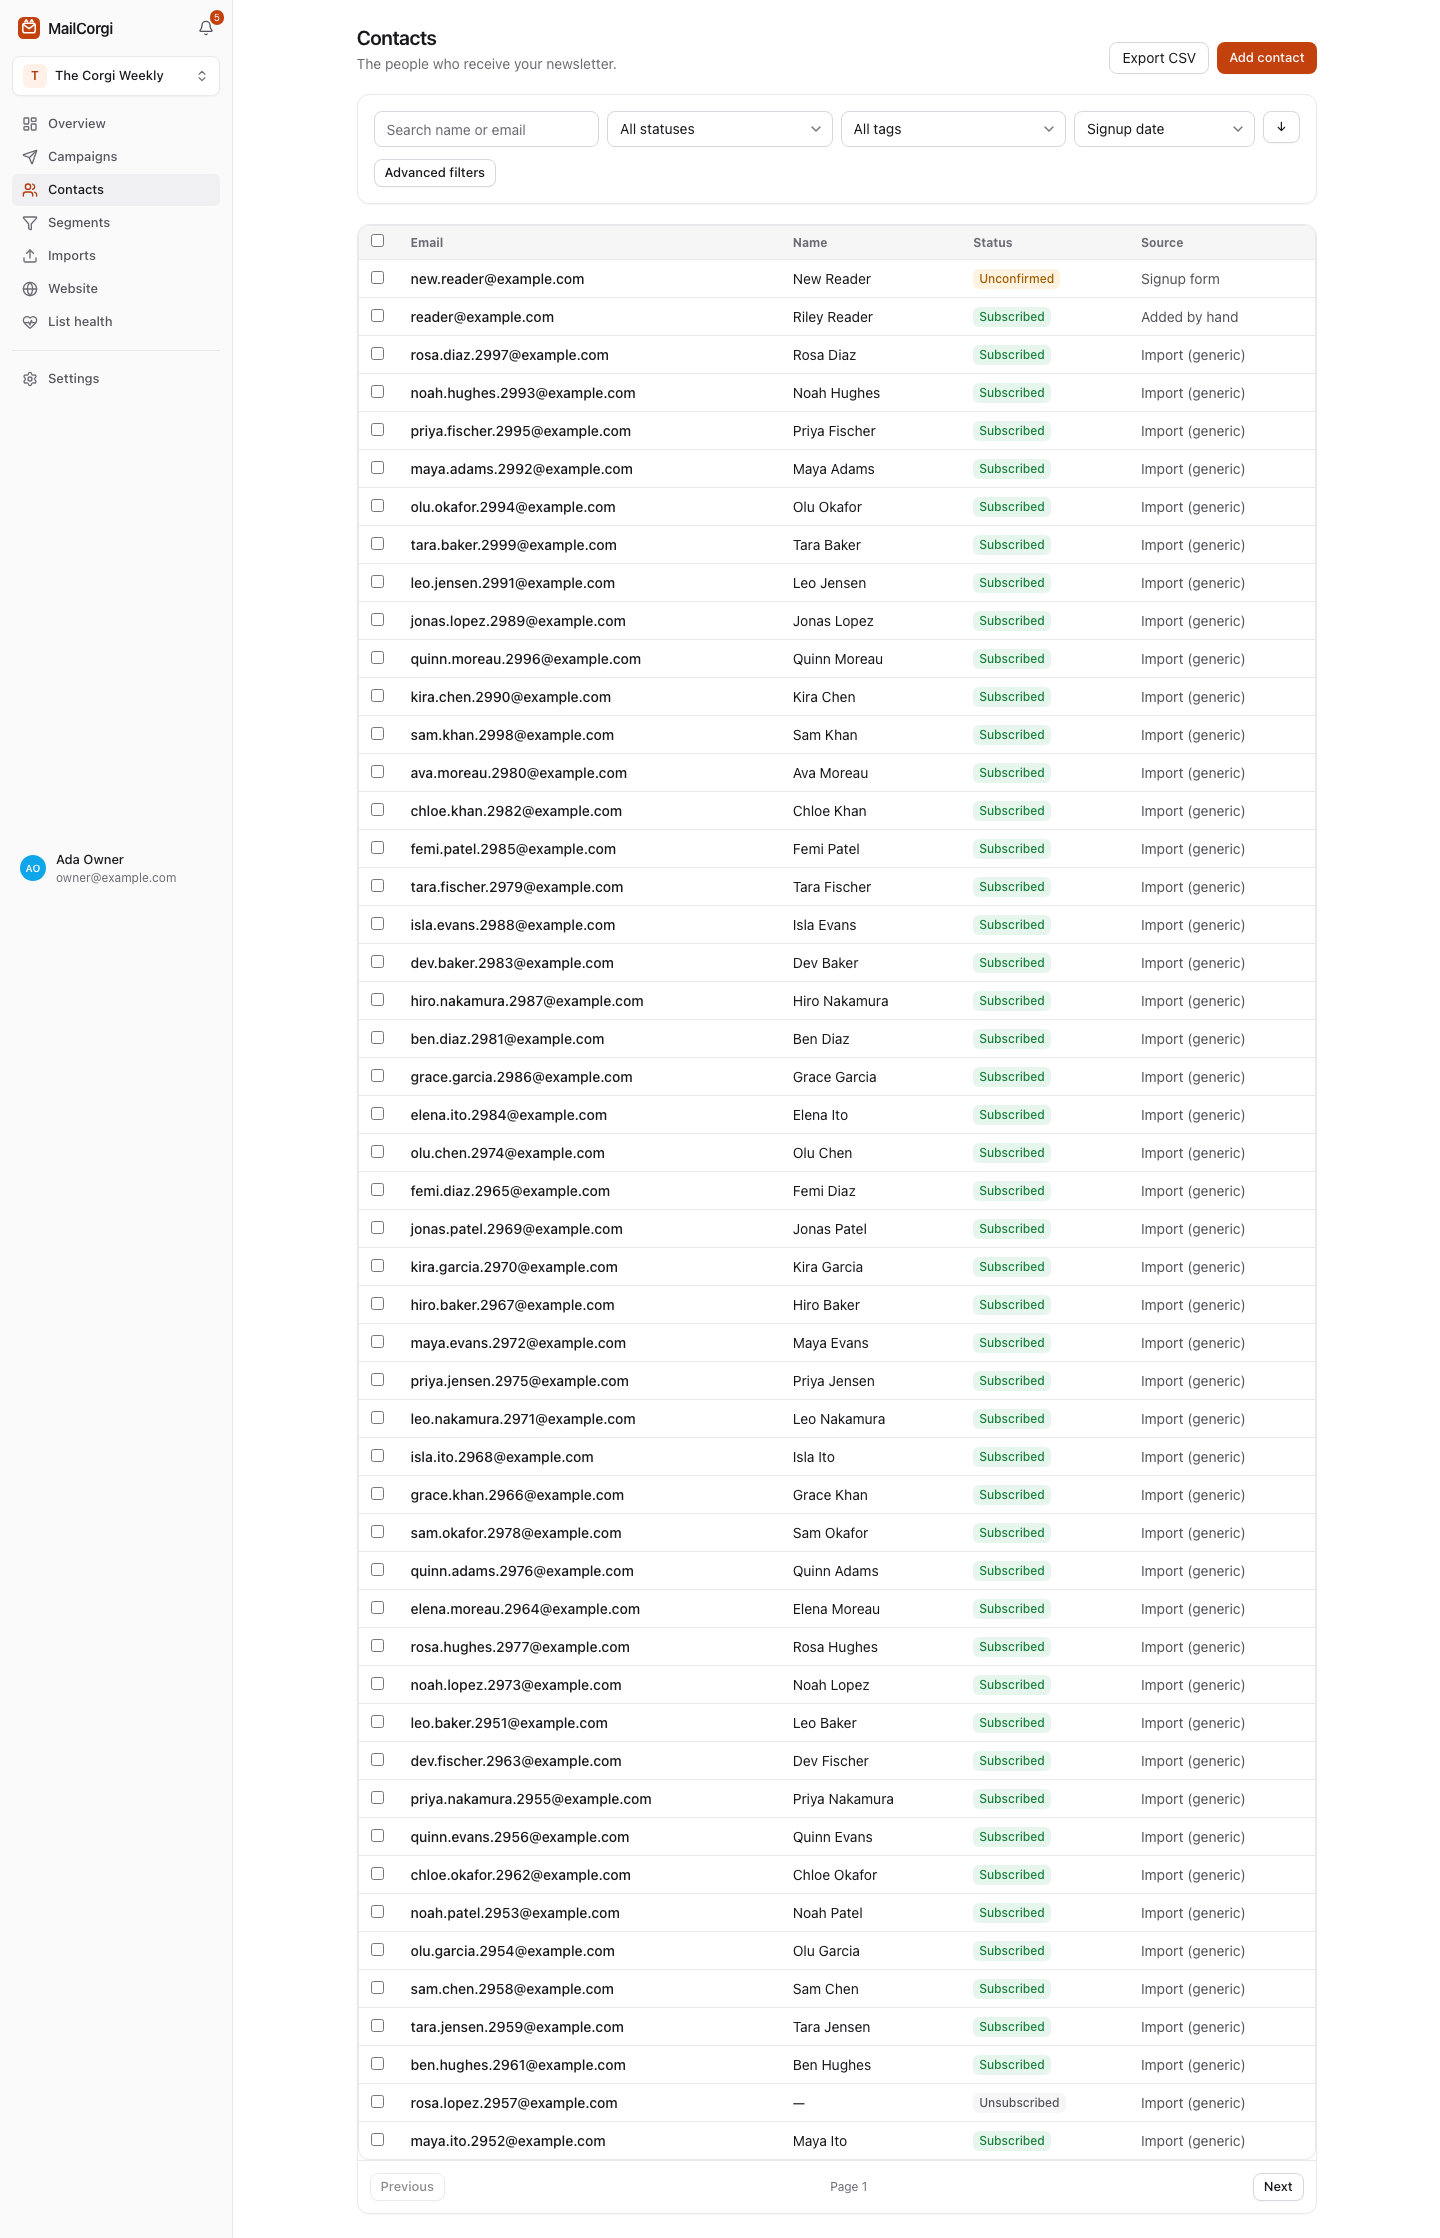
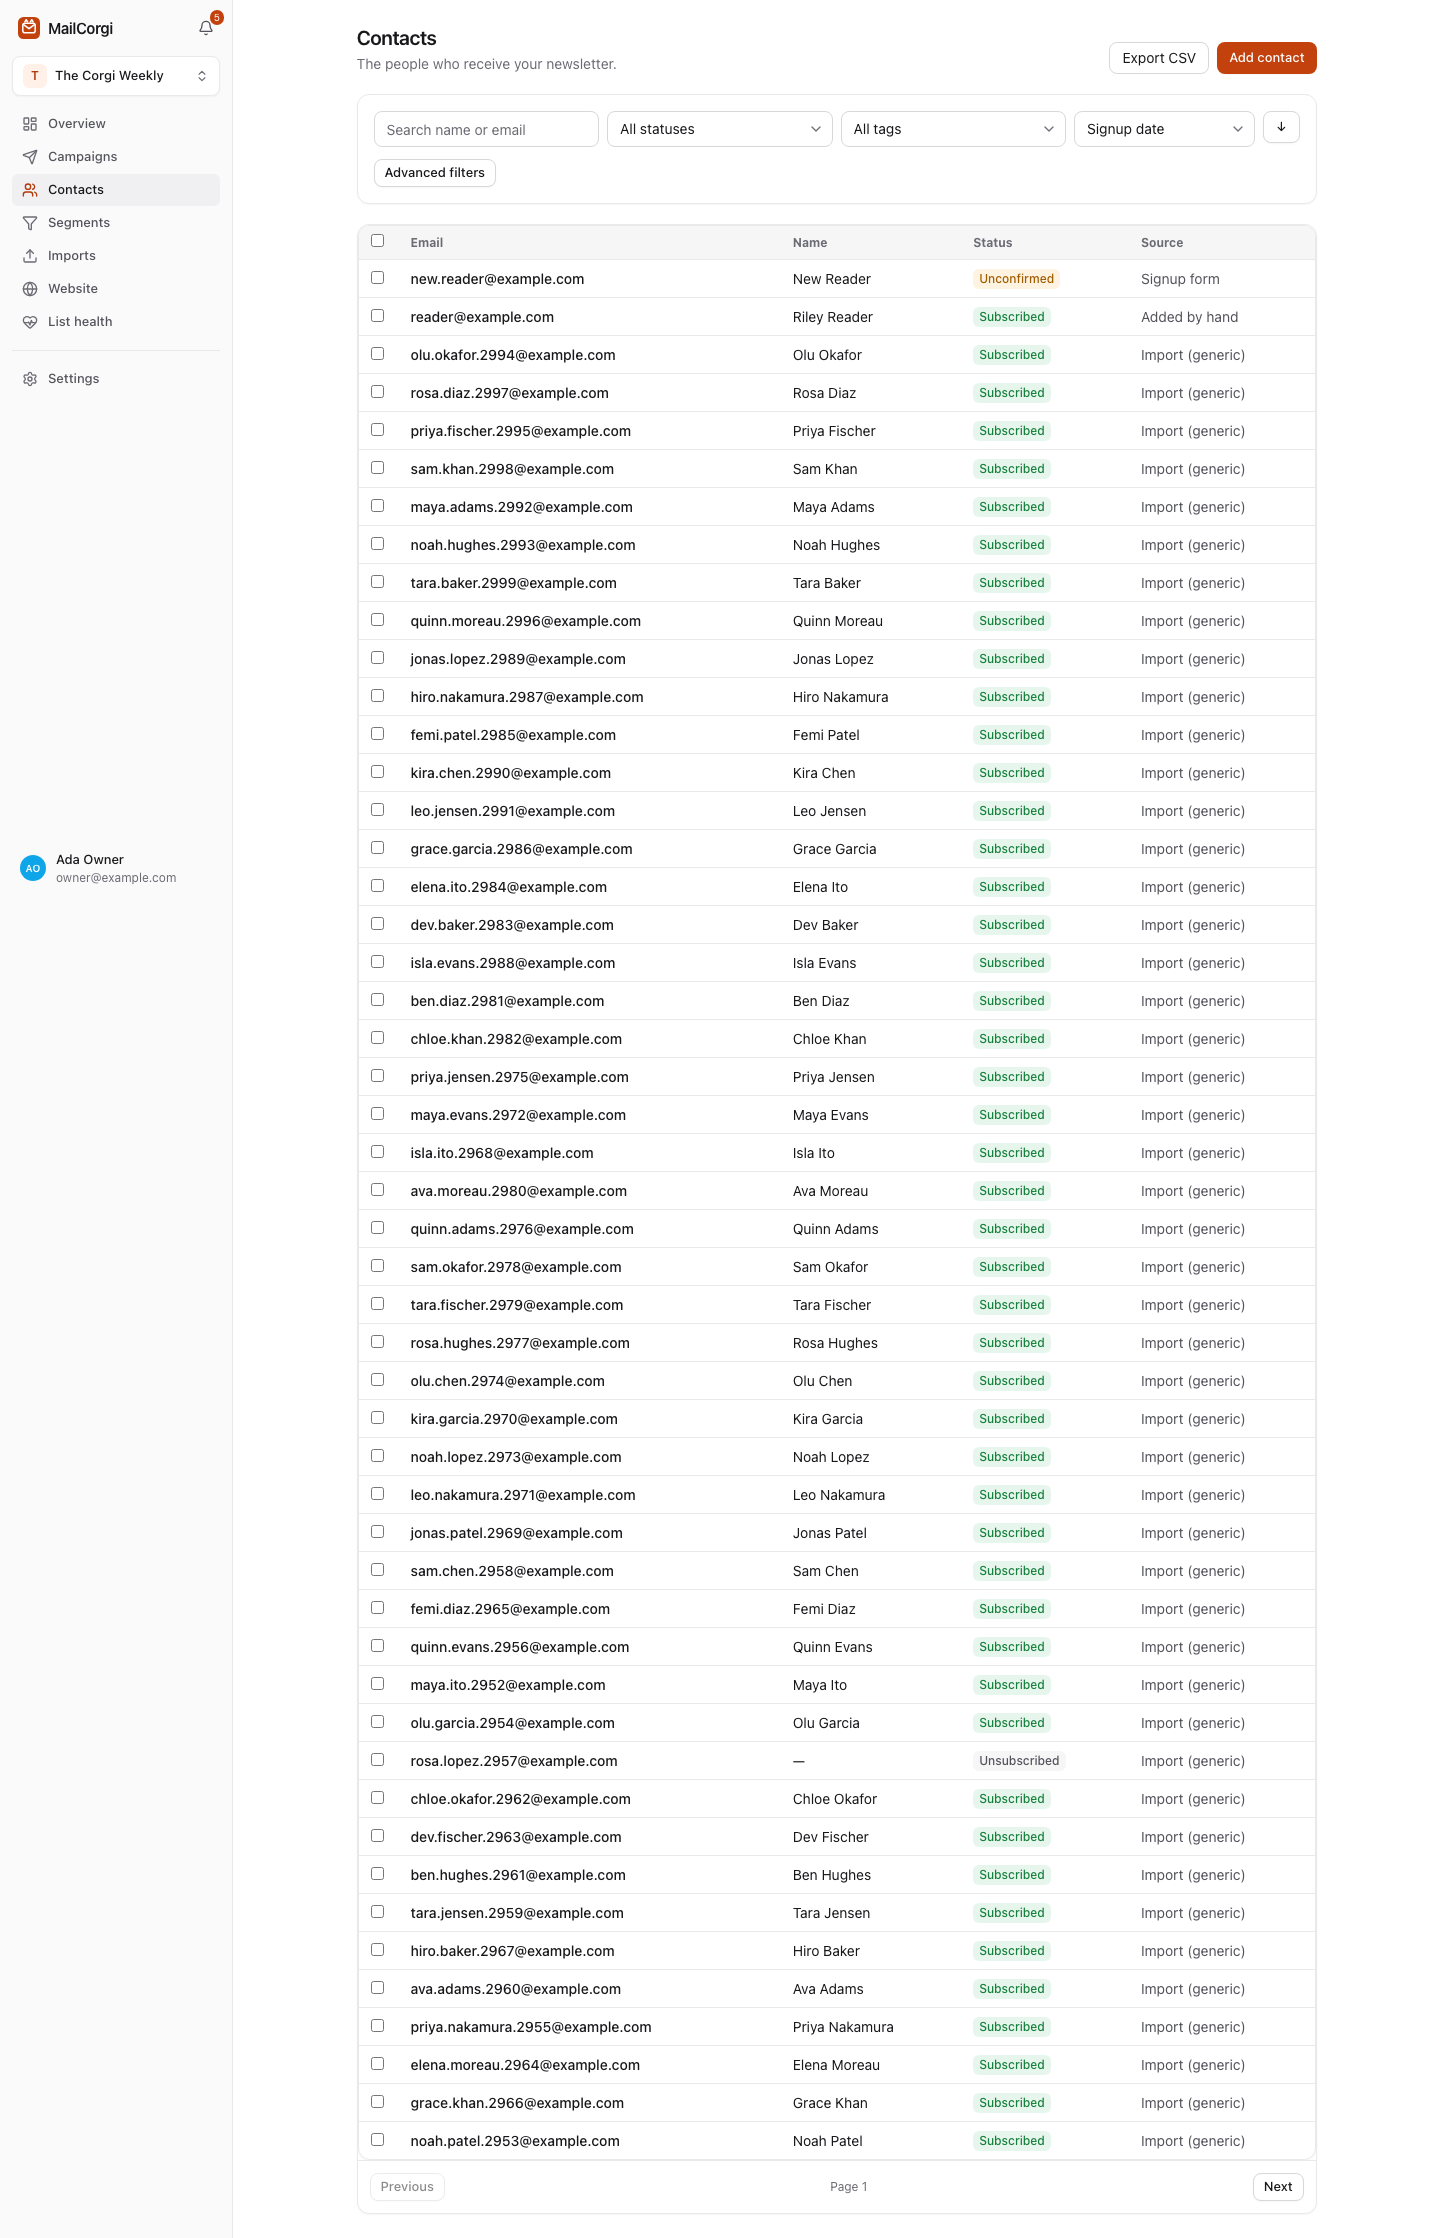
Council round 2 notes: phone viewport, focus return, ARIA
- Slash menu placement uses the visual viewport's offset and scroll,
  prefers opening below, and follows a command that wraps.
- A menu item hands focus back to its trigger before it runs.
- No aria-expanded on the textbox; no dangling active descendant.

diff --git a/web/src/features/campaigns/BlockMenu.tsx b/web/src/features/campaigns/BlockMenu.tsx
@@ -83,14 +83,16 @@ export function SlashMenu({ anchor, query, index, onIndex, onPick }: {
       const el = panel.current
       if (!a || !el) return
       const gap = 6
-      // The visual viewport shrinks when a phone's keyboard opens; the window does not.
-      const viewport = window.visualViewport?.height ?? window.innerHeight
+      // A phone's keyboard shrinks and pans the visual viewport; the window does not change.
+      const visual = window.visualViewport
+      const visibleTop = (visual?.offsetTop ?? 0) + 8
+      const visibleBottom = (visual?.offsetTop ?? 0) + (visual?.height ?? window.innerHeight) - 8
       const natural = Math.min(MAX_HEIGHT, el.scrollHeight)
-      const below = viewport - 8 - (a.bottom + gap)
-      const above = a.top - gap - 8
-      // Below the line when it fits, else on the roomier side, never taller than that side.
-      const up = natural > below && above > below
-      const maxHeight = Math.max(96, Math.min(MAX_HEIGHT, up ? above : below))
+      const below = visibleBottom - (a.bottom + gap)
+      const above = a.top - gap - visibleTop
+      // Below the line when most of it fits there (the list scrolls), else on the roomier side.
+      const up = below < Math.min(natural, 200) && above > below
+      const maxHeight = Math.max(0, Math.min(MAX_HEIGHT, up ? above : below))
       const height = Math.min(natural, maxHeight)
       setPos({ top: up ? a.top - gap - height : a.bottom + gap, left: Math.max(8, Math.min(a.left, window.innerWidth - WIDTH - 8)), maxHeight })
     }
@@ -98,12 +100,14 @@ export function SlashMenu({ anchor, query, index, onIndex, onPick }: {
     window.addEventListener('resize', place)
     window.addEventListener('scroll', place, true)
     window.visualViewport?.addEventListener('resize', place)
+    window.visualViewport?.addEventListener('scroll', place)
     return () => {
       window.removeEventListener('resize', place)
       window.removeEventListener('scroll', place, true)
       window.visualViewport?.removeEventListener('resize', place)
+      window.visualViewport?.removeEventListener('scroll', place)
     }
-  }, [anchor, blocks.length])
+  }, [anchor, blocks.length, query])
   useLayoutEffect(() => {
     panel.current?.querySelector('[data-active]')?.scrollIntoView({ block: 'nearest' })
   }, [index])

diff --git a/web/src/ui/index.tsx b/web/src/ui/index.tsx
@@ -318,12 +318,18 @@ export function Popover({ trigger, children, align = 'start', side = 'bottom', w
     if (open && placed && role === 'menu' && !panel.current?.contains(document.activeElement)) panel.current?.querySelector<HTMLElement>('[role=menuitem]:not(:disabled)')?.focus()
   }, [open, placed, role])
 
+  // Hand focus back to the trigger before a chosen item runs and unmounts, so a dialog the item
+  // opens can return focus there when it closes.
+  const handBack = (e: { target: EventTarget }) => {
+    if (role === 'menu' && e.target instanceof Element && e.target.closest('[role=menuitem]') && panel.current?.contains(document.activeElement)) anchor.current?.focus()
+  }
+
   return (
     <>
       {trigger({ onClick: () => setOpen(!open), 'aria-expanded': open, 'aria-haspopup': role, ref: anchor })}
       {open &&
         createPortal(
-          <div ref={panel} role={role} className="animate-pop fixed z-50 max-h-[min(420px,calc(100vh-16px))] overflow-y-auto rounded-xl bg-surface p-1 shadow-pop" style={{ top: pos?.top ?? -9999, left: pos?.left ?? -9999, width, minWidth: 180, visibility: pos && open ? 'visible' : 'hidden' }}>
+          <div ref={panel} role={role} onClickCapture={handBack} className="animate-pop fixed z-50 max-h-[min(420px,calc(100vh-16px))] overflow-y-auto rounded-xl bg-surface p-1 shadow-pop" style={{ top: pos?.top ?? -9999, left: pos?.left ?? -9999, width, minWidth: 180, visibility: pos && open ? 'visible' : 'hidden' }}>
             {children(() => setOpen(false))}
           </div>,
           document.body,

diff --git a/web/src/features/campaigns/Editor.tsx b/web/src/features/campaigns/Editor.tsx
@@ -243,12 +243,10 @@ export function CampaignEditor({ newsletterId, doc, onChange, onSave, editable }
     if (!editor || editor.isDestroyed) return
     const dom = editor.view.dom
     if (slash) {
-      dom.setAttribute('aria-expanded', 'true')
       dom.setAttribute('aria-controls', 'slash-menu')
-      dom.setAttribute('aria-activedescendant', `slash-item-${slashIndex}`)
+      if (filterBlocks(slash.query).length) dom.setAttribute('aria-activedescendant', `slash-item-${slashIndex}`)
     }
     return () => {
-      dom.removeAttribute('aria-expanded')
       dom.removeAttribute('aria-controls')
       dom.removeAttribute('aria-activedescendant')
     }
